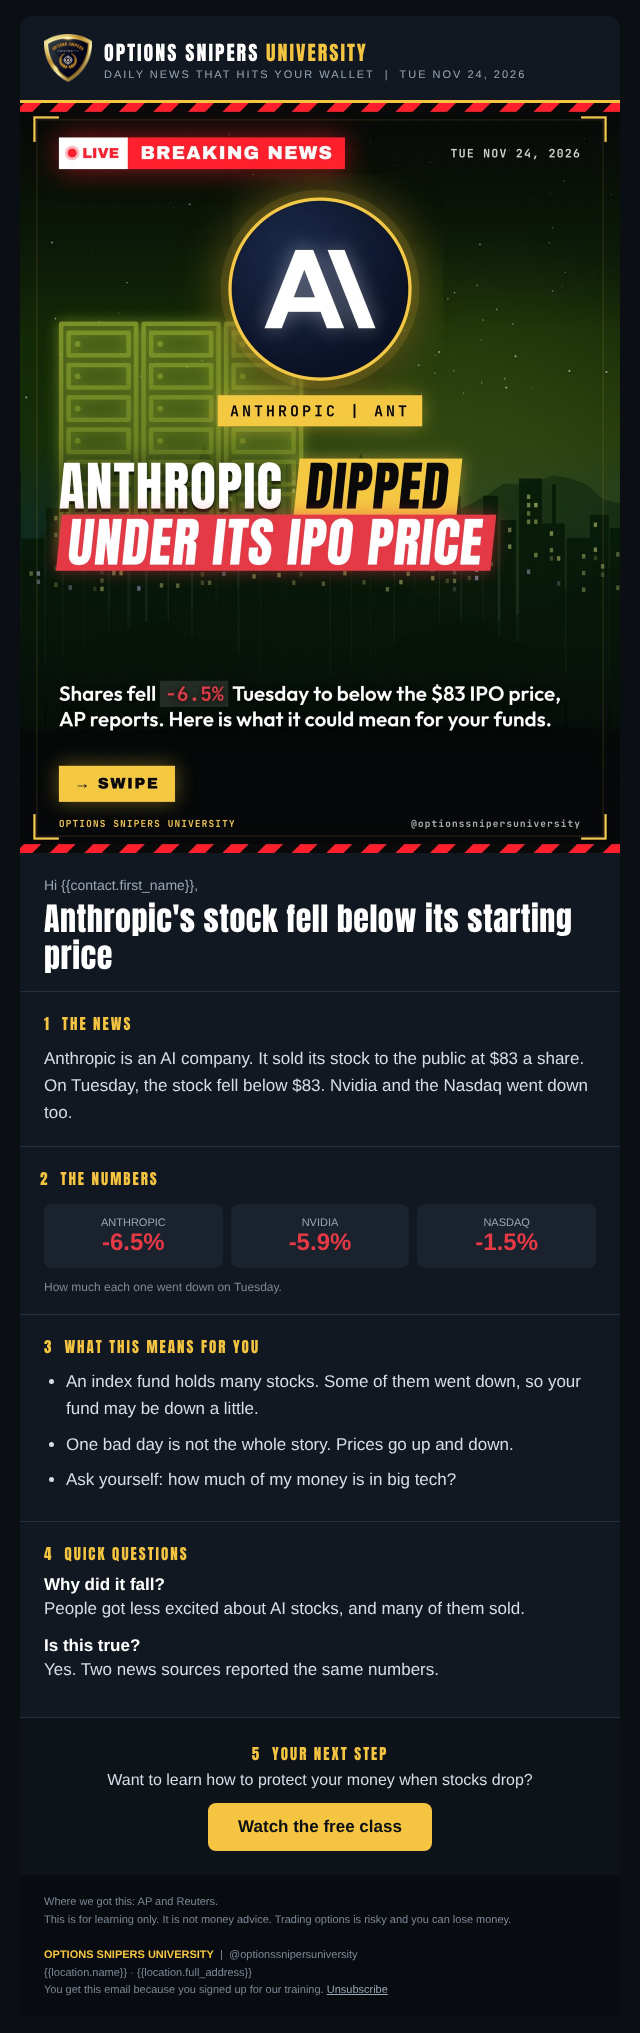
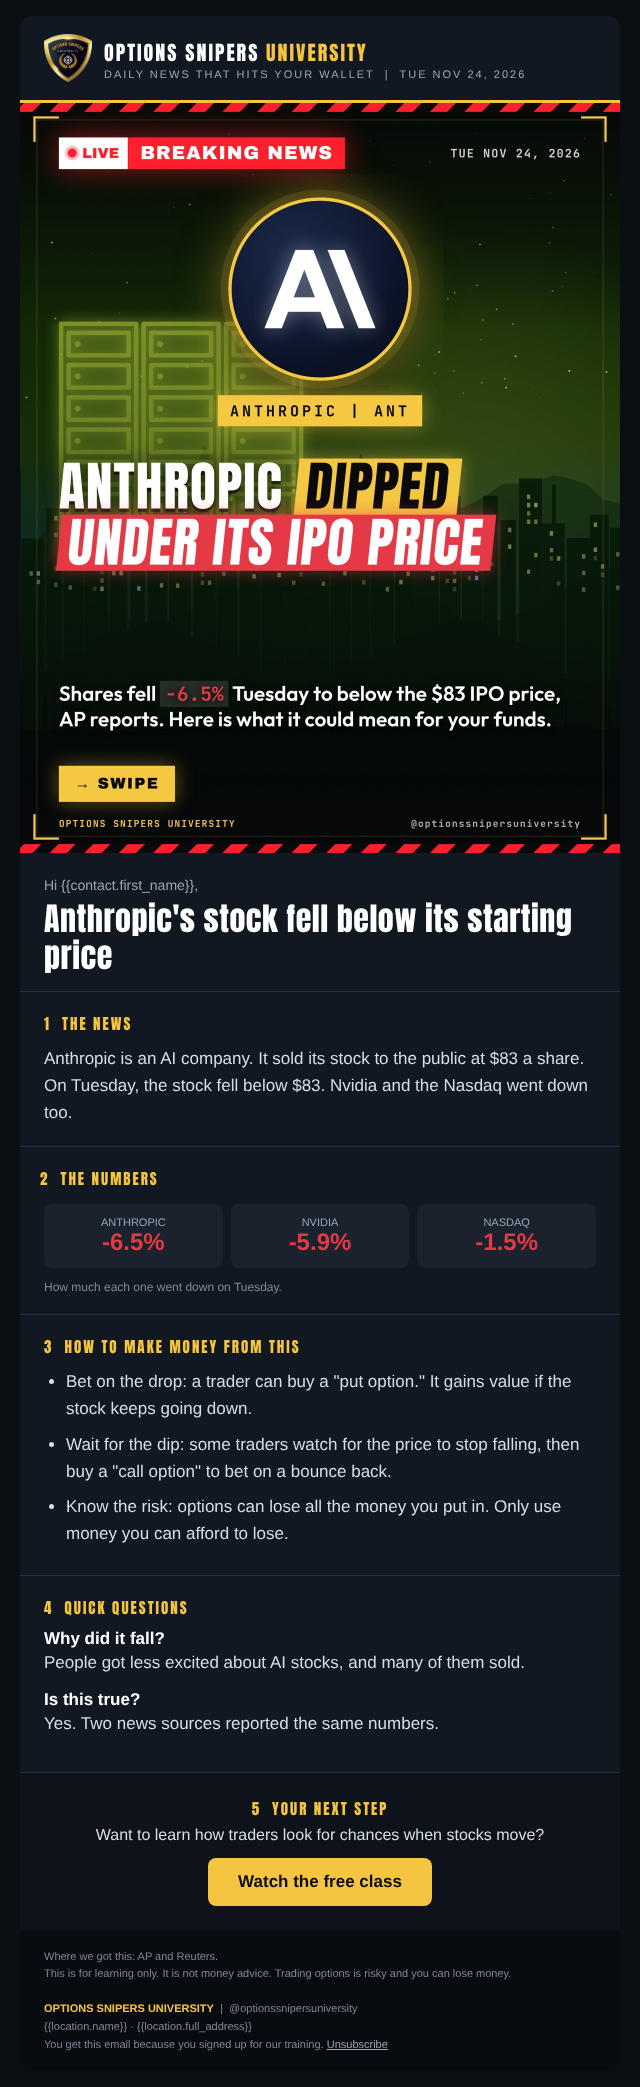
Newsletter section 3: how to make money from this
Claude-Session: https://claude.ai/code/session_012Jnj24W5oP8eoSDNkGANUC

diff --git a/newsletter/sample/preview.html b/newsletter/sample/preview.html
@@ -9,8 +9,8 @@
 <tr><td style="padding:24px 24px 16px;"><div style="font-size:14px;color:#9aa7b4;">Hi {{contact.first_name}},</div><h1 style="margin:8px 0 0;font-family:Impact,'Anton',Arial,sans-serif;font-weight:normal;letter-spacing:.5px;font-size:32px;line-height:1.15;color:#ffffff;">Anthropic's stock fell below its starting price</h1></td></tr>
 <tr><td style="padding:20px 24px;border-top:1px solid #243040;"><div style="font-family:Impact,'Anton',Arial,sans-serif;font-size:15px;letter-spacing:2px;color:#F5C542;margin-bottom:10px;">1 &nbsp;THE NEWS</div><p style="font-size:17px;line-height:1.6;color:#d5dde5;margin:0;">Anthropic is an AI company. It sold its stock to the public at $83 a share. On Tuesday, the stock fell below $83. Nvidia and the Nasdaq went down too.</p></td></tr>
 <tr><td style="padding:20px 20px;border-top:1px solid #243040;"><div style="font-family:Impact,'Anton',Arial,sans-serif;font-size:15px;letter-spacing:2px;color:#F5C542;margin-bottom:10px;">2 &nbsp;THE NUMBERS</div><table role="presentation" width="100%" cellpadding="0" cellspacing="0"><tr><td width="33%" style="padding:4px;"><div style="background:#1a222d;border-radius:8px;padding:12px;text-align:center;"><div style="font-size:11px;color:#9aa7b4;">ANTHROPIC</div><div style="font-size:24px;font-weight:bold;color:#E63946;">-6.5%</div></div></td><td width="33%" style="padding:4px;"><div style="background:#1a222d;border-radius:8px;padding:12px;text-align:center;"><div style="font-size:11px;color:#9aa7b4;">NVIDIA</div><div style="font-size:24px;font-weight:bold;color:#E63946;">-5.9%</div></div></td><td width="33%" style="padding:4px;"><div style="background:#1a222d;border-radius:8px;padding:12px;text-align:center;"><div style="font-size:11px;color:#9aa7b4;">NASDAQ</div><div style="font-size:24px;font-weight:bold;color:#E63946;">-1.5%</div></div></td></tr></table><p style="font-size:12px;color:#7d8996;margin:8px 4px 0;">How much each one went down on Tuesday.</p></td></tr>
-<tr><td style="padding:20px 24px;border-top:1px solid #243040;"><div style="font-family:Impact,'Anton',Arial,sans-serif;font-size:15px;letter-spacing:2px;color:#F5C542;margin-bottom:10px;">3 &nbsp;WHAT THIS MEANS FOR YOU</div><ul style="font-size:17px;line-height:1.6;color:#d5dde5;margin:0;padding-left:22px;"><li style="margin-bottom:8px;">An index fund holds many stocks. Some of them went down, so your fund may be down a little.</li><li style="margin-bottom:8px;">One bad day is not the whole story. Prices go up and down.</li><li style="margin-bottom:8px;">Ask yourself: how much of my money is in big tech?</li></ul></td></tr>
+<tr><td style="padding:20px 24px;border-top:1px solid #243040;"><div style="font-family:Impact,'Anton',Arial,sans-serif;font-size:15px;letter-spacing:2px;color:#F5C542;margin-bottom:10px;">3 &nbsp;HOW TO MAKE MONEY FROM THIS</div><ul style="font-size:17px;line-height:1.6;color:#d5dde5;margin:0;padding-left:22px;"><li style="margin-bottom:8px;">Bet on the drop: a trader can buy a "put option." It gains value if the stock keeps going down.</li><li style="margin-bottom:8px;">Wait for the dip: some traders watch for the price to stop falling, then buy a "call option" to bet on a bounce back.</li><li style="margin-bottom:8px;">Know the risk: options can lose all the money you put in. Only use money you can afford to lose.</li></ul></td></tr>
 <tr><td style="padding:20px 24px;border-top:1px solid #243040;"><div style="font-family:Impact,'Anton',Arial,sans-serif;font-size:15px;letter-spacing:2px;color:#F5C542;margin-bottom:10px;">4 &nbsp;QUICK QUESTIONS</div><div style="margin-bottom:14px;"><div style="font-size:17px;font-weight:bold;color:#ffffff;">Why did it fall?</div><div style="font-size:17px;line-height:1.6;color:#d5dde5;margin:0;">People got less excited about AI stocks, and many of them sold.</div></div><div style="margin-bottom:14px;"><div style="font-size:17px;font-weight:bold;color:#ffffff;">Is this true?</div><div style="font-size:17px;line-height:1.6;color:#d5dde5;margin:0;">Yes. Two news sources reported the same numbers.</div></div></td></tr>
-<tr><td align="center" style="padding:24px;border-top:1px solid #243040;background:#0e131a;"><div style="font-family:Impact,'Anton',Arial,sans-serif;font-size:15px;letter-spacing:2px;color:#F5C542;margin-bottom:6px;">5 &nbsp;YOUR NEXT STEP</div><div style="font-size:16px;color:#d5dde5;margin-bottom:14px;">Want to learn how to protect your money when stocks drop?</div><a href="https://example.com" style="display:inline-block;background:#F5C542;color:#0b0f14;font-weight:bold;font-size:17px;text-decoration:none;padding:14px 30px;border-radius:8px;">Watch the free class</a></td></tr>
+<tr><td align="center" style="padding:24px;border-top:1px solid #243040;background:#0e131a;"><div style="font-family:Impact,'Anton',Arial,sans-serif;font-size:15px;letter-spacing:2px;color:#F5C542;margin-bottom:6px;">5 &nbsp;YOUR NEXT STEP</div><div style="font-size:16px;color:#d5dde5;margin-bottom:14px;">Want to learn how traders look for chances when stocks move?</div><a href="https://example.com" style="display:inline-block;background:#F5C542;color:#0b0f14;font-weight:bold;font-size:17px;text-decoration:none;padding:14px 30px;border-radius:8px;">Watch the free class</a></td></tr>
 <tr><td style="padding:18px 24px;background:#080b10;font-size:11px;line-height:1.6;color:#7d8996;">Where we got this: AP and Reuters.<br>This is for learning only. It is not money advice. Trading options is risky and you can lose money.<br><br><strong style="color:#F5C542;">OPTIONS SNIPERS UNIVERSITY</strong> &nbsp;|&nbsp; @optionssnipersuniversity<br>{{location.name}} · {{location.full_address}}<br>You get this email because you signed up for our training. <a href="{{unsubscribe_link}}" style="color:#9aa7b4;">Unsubscribe</a></td></tr>
 </table></td></tr></table></body></html>

diff --git a/newsletter/email-template.html b/newsletter/email-template.html
@@ -9,7 +9,7 @@
 <tr><td style="padding:24px 24px 16px;"><div style="font-size:14px;color:#9aa7b4;">Hi {{contact.first_name}},</div><h1 style="margin:8px 0 0;font-family:Impact,'Anton',Arial,sans-serif;font-weight:normal;letter-spacing:.5px;font-size:32px;line-height:1.15;color:#ffffff;">[[HEADLINE: short and plain]]</h1></td></tr>
 <tr><td style="padding:20px 24px;border-top:1px solid #243040;"><div style="font-family:Impact,'Anton',Arial,sans-serif;font-size:15px;letter-spacing:2px;color:#F5C542;margin-bottom:10px;">1 &nbsp;THE NEWS</div><p style="font-size:17px;line-height:1.6;color:#d5dde5;margin:0;">[[THE NEWS: 3 short sentences. Who, what, when.]]</p></td></tr>
 <tr><td style="padding:20px 20px;border-top:1px solid #243040;"><div style="font-family:Impact,'Anton',Arial,sans-serif;font-size:15px;letter-spacing:2px;color:#F5C542;margin-bottom:10px;">2 &nbsp;THE NUMBERS</div><table role="presentation" width="100%" cellpadding="0" cellspacing="0"><tr><td width="33%" style="padding:4px;"><div style="background:#1a222d;border-radius:8px;padding:12px;text-align:center;"><div style="font-size:11px;color:#9aa7b4;">[[T1_NAME]]</div><div style="font-size:24px;font-weight:bold;color:#E63946;">[[T1_MOVE]]</div></div></td><td width="33%" style="padding:4px;"><div style="background:#1a222d;border-radius:8px;padding:12px;text-align:center;"><div style="font-size:11px;color:#9aa7b4;">[[T2_NAME]]</div><div style="font-size:24px;font-weight:bold;color:#E63946;">[[T2_MOVE]]</div></div></td><td width="33%" style="padding:4px;"><div style="background:#1a222d;border-radius:8px;padding:12px;text-align:center;"><div style="font-size:11px;color:#9aa7b4;">[[T3_NAME]]</div><div style="font-size:24px;font-weight:bold;color:#E63946;">[[T3_MOVE]]</div></div></td></tr></table><p style="font-size:12px;color:#7d8996;margin:8px 4px 0;">[[NUMBERS NOTE: what the numbers are, e.g. Change on Tuesday]]</p></td></tr>
-<tr><td style="padding:20px 24px;border-top:1px solid #243040;"><div style="font-family:Impact,'Anton',Arial,sans-serif;font-size:15px;letter-spacing:2px;color:#F5C542;margin-bottom:10px;">3 &nbsp;WHAT THIS MEANS FOR YOU</div><ul style="font-size:17px;line-height:1.6;color:#d5dde5;margin:0;padding-left:22px;"><li style="margin-bottom:8px;">[[BULLET_1: short]]</li><li style="margin-bottom:8px;">[[BULLET_2: short]]</li><li style="margin-bottom:8px;">[[BULLET_3: short]]</li></ul></td></tr>
+<tr><td style="padding:20px 24px;border-top:1px solid #243040;"><div style="font-family:Impact,'Anton',Arial,sans-serif;font-size:15px;letter-spacing:2px;color:#F5C542;margin-bottom:10px;">3 &nbsp;HOW TO MAKE MONEY FROM THIS</div><ul style="font-size:17px;line-height:1.6;color:#d5dde5;margin:0;padding-left:22px;"><li style="margin-bottom:8px;">[[MONEY_IDEA_1: a way traders can profit, plain words]]</li><li style="margin-bottom:8px;">[[MONEY_IDEA_2: another way]]</li><li style="margin-bottom:8px;">[[MONEY_IDEA_3: the risk to know]]</li></ul></td></tr>
 <tr><td style="padding:20px 24px;border-top:1px solid #243040;"><div style="font-family:Impact,'Anton',Arial,sans-serif;font-size:15px;letter-spacing:2px;color:#F5C542;margin-bottom:10px;">4 &nbsp;QUICK QUESTIONS</div><div style="margin-bottom:14px;"><div style="font-size:17px;font-weight:bold;color:#ffffff;">[[Q1]]</div><div style="font-size:17px;line-height:1.6;color:#d5dde5;margin:0;">[[A1: 1-2 short sentences]]</div></div><div style="margin-bottom:14px;"><div style="font-size:17px;font-weight:bold;color:#ffffff;">[[Q2]]</div><div style="font-size:17px;line-height:1.6;color:#d5dde5;margin:0;">[[A2: 1-2 short sentences]]</div></div></td></tr>
 <tr><td align="center" style="padding:24px;border-top:1px solid #243040;background:#0e131a;"><div style="font-family:Impact,'Anton',Arial,sans-serif;font-size:15px;letter-spacing:2px;color:#F5C542;margin-bottom:6px;">5 &nbsp;YOUR NEXT STEP</div><div style="font-size:16px;color:#d5dde5;margin-bottom:14px;">[[CTA_TEXT: one friendly sentence]]</div><a href="[[CTA_URL]]" style="display:inline-block;background:#F5C542;color:#0b0f14;font-weight:bold;font-size:17px;text-decoration:none;padding:14px 30px;border-radius:8px;">[[BUTTON TEXT]]</a></td></tr>
 <tr><td style="padding:18px 24px;background:#080b10;font-size:11px;line-height:1.6;color:#7d8996;">Where we got this: [[SOURCES]].<br>This is for learning only. It is not money advice. Trading options is risky and you can lose money.<br><br><strong style="color:#F5C542;">OPTIONS SNIPERS UNIVERSITY</strong> &nbsp;|&nbsp; @optionssnipersuniversity<br>{{location.name}} · {{location.full_address}}<br>You get this email because you signed up for our training. <a href="{{unsubscribe_link}}" style="color:#9aa7b4;">Unsubscribe</a></td></tr>

diff --git a/newsletter/build.py b/newsletter/build.py
@@ -13,7 +13,7 @@ def page(v,logo,cover):
     rows.append(sec('1 &nbsp;THE NEWS',f'<p style="{p}">{v["NEWS"]}</p>'))
     rows.append(sec('2 &nbsp;THE NUMBERS',f'<table role="presentation" width="100%" cellpadding="0" cellspacing="0"><tr>{chip(*v["T1"])}{chip(*v["T2"])}{chip(*v["T3"])}</tr></table><p style="font-size:12px;color:#7d8996;margin:8px 4px 0;">{v["NUMNOTE"]}</p>',pad='20px 20px'))
     li=''.join(f'<li style="margin-bottom:8px;">{b}</li>' for b in v['BUL'])
-    rows.append(sec('3 &nbsp;WHAT THIS MEANS FOR YOU',f'<ul style="{p}padding-left:22px;">{li}</ul>'))
+    rows.append(sec('3 &nbsp;HOW TO MAKE MONEY FROM THIS',f'<ul style="{p}padding-left:22px;">{li}</ul>'))
     qa=''.join(f'<div style="margin-bottom:14px;"><div style="font-size:17px;font-weight:bold;color:#ffffff;">{q}</div><div style="{p}">{a}</div></div>' for q,a in v['QA'])
     rows.append(sec('4 &nbsp;QUICK QUESTIONS',qa))
     rows.append(f'''<tr><td align="center" style="padding:24px;border-top:1px solid #243040;background:#0e131a;"><div style="font-family:Impact,'Anton',Arial,sans-serif;font-size:15px;letter-spacing:2px;color:#F5C542;margin-bottom:6px;">5 &nbsp;YOUR NEXT STEP</div><div style="font-size:16px;color:#d5dde5;margin-bottom:14px;">{v['CTATEXT']}</div><a href="{v['CTAURL']}" style="display:inline-block;background:#F5C542;color:#0b0f14;font-weight:bold;font-size:17px;text-decoration:none;padding:14px 30px;border-radius:8px;">{v['CTABTN']}</a></td></tr>''')
@@ -28,13 +28,13 @@ def page(v,logo,cover):
 </table></td></tr></table></body></html>'''
 ph={'PRE':'[[PREHEADER: one short sentence]]','DATE':'[[DATE]]','ALT':'[[ALT: headline]]','HEADLINE':'[[HEADLINE: short and plain]]','NEWS':'[[THE NEWS: 3 short sentences. Who, what, when.]]',
 'T1':('[[T1_NAME]]','[[T1_MOVE]]'),'T2':('[[T2_NAME]]','[[T2_MOVE]]'),'T3':('[[T3_NAME]]','[[T3_MOVE]]'),'NUMNOTE':'[[NUMBERS NOTE: what the numbers are, e.g. Change on Tuesday]]',
-'BUL':['[[BULLET_1: short]]','[[BULLET_2: short]]','[[BULLET_3: short]]'],'QA':[('[[Q1]]','[[A1: 1-2 short sentences]]'),('[[Q2]]','[[A2: 1-2 short sentences]]')],
+'BUL':['[[MONEY_IDEA_1: a way traders can profit, plain words]]','[[MONEY_IDEA_2: another way]]','[[MONEY_IDEA_3: the risk to know]]'],'QA':[('[[Q1]]','[[A1: 1-2 short sentences]]'),('[[Q2]]','[[A2: 1-2 short sentences]]')],
 'CTATEXT':'[[CTA_TEXT: one friendly sentence]]','CTABTN':'[[BUTTON TEXT]]','CTAURL':'[[CTA_URL]]','SRC':'[[SOURCES]]'}
 open('email-template.html','w').write(page(ph,'osu-logo.png','[[COVER_URL]]'))
 sm={'PRE':'The biggest AI stock sale of the year just dipped. Here is what it means for you.','DATE':'TUE NOV 24, 2026','ALT':'Anthropic fell below its IPO price','HEADLINE':'Anthropic\'s stock fell below its starting price',
 'NEWS':'Anthropic is an AI company. It sold its stock to the public at $83 a share. On Tuesday, the stock fell below $83. Nvidia and the Nasdaq went down too.',
 'T1':('ANTHROPIC','-6.5%'),'T2':('NVIDIA','-5.9%'),'T3':('NASDAQ','-1.5%'),'NUMNOTE':'How much each one went down on Tuesday.',
-'BUL':['An index fund holds many stocks. Some of them went down, so your fund may be down a little.','One bad day is not the whole story. Prices go up and down.','Ask yourself: how much of my money is in big tech?'],
+'BUL':['Bet on the drop: a trader can buy a "put option." It gains value if the stock keeps going down.','Wait for the dip: some traders watch for the price to stop falling, then buy a "call option" to bet on a bounce back.','Know the risk: options can lose all the money you put in. Only use money you can afford to lose.'],
 'QA':[('Why did it fall?','People got less excited about AI stocks, and many of them sold.'),('Is this true?','Yes. Two news sources reported the same numbers.')],
-'CTATEXT':'Want to learn how to protect your money when stocks drop?','CTABTN':'Watch the free class','CTAURL':'https://example.com','SRC':'AP and Reuters'}
+'CTATEXT':'Want to learn how traders look for chances when stocks move?','CTABTN':'Watch the free class','CTAURL':'https://example.com','SRC':'AP and Reuters'}
 open('sample/preview.html','w').write(page(sm,'../osu-logo.png','cover.jpg'))
